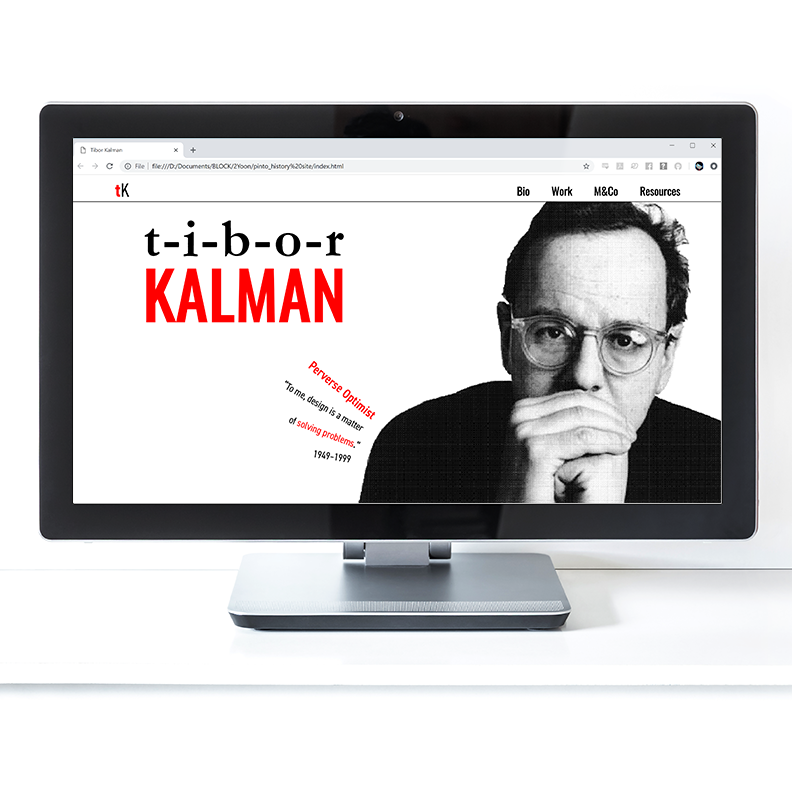
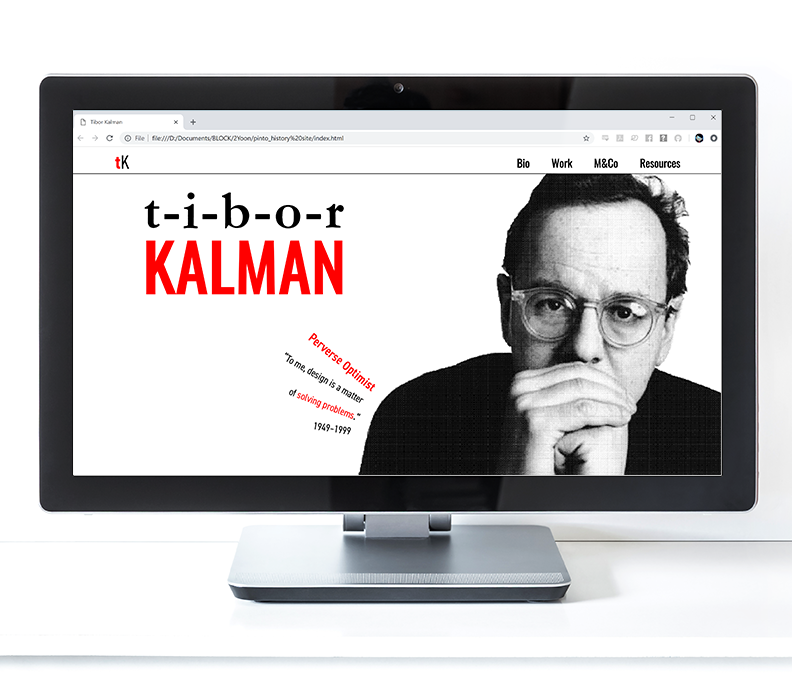
*seven project pages*

Changed region(s): [[0.0, 0.0921, 1.0, 0.8904], [0.1818, 0.2763, 0.4545, 0.4298], [0.0, 0.9518, 1.0, 0.9825]]

diff --git a/covers.html b/covers.html
@@ -1,0 +1,64 @@
+<!DOCTYPE html>
+<!--[if lte IE 6]><html class="preIE7 preIE8 preIE9"><![endif]-->
+<!--[if IE 7]><html class="preIE8 preIE9"><![endif]-->
+<!--[if IE 8]><html class="preIE9"><![endif]-->
+<!--[if gte IE 9]><!-->
+<html><!--<![endif]-->
+<head>
+  <meta charset="UTF-8">
+  <title>Clarisse Pinto</title>
+  <meta name="author" content="Clarisse Pinto">
+  <meta name="description" content="Clarisse Pinto's graphic design portfolio.">
+  <meta name="keywords" content="clarisse, pinto, graphic design, design, portfolio, university of hosuton, student">
+  <link rel="stylesheet" href="https://use.typekit.net/shd0qyw.css">
+  <link rel="stylesheet" href="main.css" type="text/css">
+    
+    <style>
+    </style>    
+</head>
+    
+    <nav>
+		<ul id="navi">
+            <li class="home"><a class="active" href="index.html">C<span class="ital">larisse</span> Pinto</a></li>
+            <li class="work"><a href="index.html#grid">W<span class="ital">ork</span></a></li>
+            <li class="about"><a href="about.html">About</a></li>
+            <li class="contact"><span id="te">T</span> <span id="cel">832.922.7757</span> <br>
+            <span id="te">E</span><a href="mailto:hi@clarissepin.to"> hi@clarissepin.to</a></li>
+		</ul>
+	</nav>
+       
+    
+<body>
+
+    <section id="fold">
+        <div>
+            <h2 class="name">Book Cover Series</h2>
+            <h3 class="subs">print / handlettering / book cover design</h3>
+        </div>
+
+        <div class="hero">
+             <img src="covers/bc_web.jpg">
+            <p class="arrow"><a href="covers.html#content">&caron;</a></p>
+        </div>
+    </section>
+    
+    <section id="content">
+        <div class="statement">
+            <p>This series of handlettered covers reflect the satire of American life highlighted in each of the novels. An OpArt aesthetic echoes the idea that things aren't as they seem at first glance. </p>
+        </div>
+
+        <div class="images">
+            <img src="covers/bc_back2_web.jpg">
+            <img src="covers/bc_ap_web.jpg">
+            <img src="covers/bc_cc_web.jpg">
+            <img src="covers/bc_nl_web.jpg">
+            <img src="covers/bc_spine_web.jpg">
+        </div>
+    </section>
+
+
+
+
+
+</body>
+</html>

diff --git a/poetryposter.html b/poetryposter.html
@@ -1,0 +1,61 @@
+<!DOCTYPE html>
+<!--[if lte IE 6]><html class="preIE7 preIE8 preIE9"><![endif]-->
+<!--[if IE 7]><html class="preIE8 preIE9"><![endif]-->
+<!--[if IE 8]><html class="preIE9"><![endif]-->
+<!--[if gte IE 9]><!-->
+<html><!--<![endif]-->
+<head>
+  <meta charset="UTF-8">
+  <title>Clarisse Pinto</title>
+  <meta name="author" content="Clarisse Pinto">
+  <meta name="description" content="Clarisse Pinto's graphic design portfolio.">
+  <meta name="keywords" content="clarisse, pinto, graphic design, design, portfolio, university of hosuton, student">
+  <link rel="stylesheet" href="https://use.typekit.net/shd0qyw.css">
+  <link rel="stylesheet" href="main.css" type="text/css">
+    
+    <style>
+    </style>    
+</head>
+    
+    <nav>
+		<ul id="navi">
+            <li class="home"><a class="active" href="index.html">C<span class="ital">larisse</span> Pinto</a></li>
+            <li class="work"><a href="index.html#grid">W<span class="ital">ork</span></a></li>
+            <li class="about"><a href="about.html">About</a></li>
+            <li class="contact"><span id="te">T</span> <span id="cel">832.922.7757</span> <br>
+            <span id="te">E</span><a href="mailto:hi@clarissepin.to"> hi@clarissepin.to</a></li>
+		</ul>
+	</nav>
+       
+    
+<body>
+
+    <section id="fold">
+        <div>
+            <h2 class="name">Jabberwock Visual Poem</h2>
+            <h3 class="subs">print / letterpress / creative writing / collaboration</h3>
+        </div>
+
+        <div class="hero">
+             <img src="poetryposter/jb_close.jpg">
+            <p class="arrow"><a href="poetryposter.html#content">&caron;</a></p>
+        </div>
+    </section>
+    
+    <section id="content">
+        <div class="statement">
+            <p>This letterpress poster was part of a collaborative alphabet poetry book. The UHGD class of 2019 did a round robbin alliteration exercise and created individual visual poems through traditional print methods. </p>
+        </div>
+
+        <div class="images">
+            <img src="poetryposter/jb_close2.jpg">
+            <img src="poetryposter/jabberwock.png">
+        </div>
+    </section>
+
+
+
+
+
+</body>
+</html>

diff --git a/index.html b/index.html
@@ -32,13 +32,9 @@
     
 
 <section id="splash"> 
-    
     <div class="bq">    
         <blockquote>Passionate about the social impact potential of design to improve people’s experience through thoughtfully considered decisions.</blockquote>
-    </div>    
-    
-    
-    
+    </div>        
 </section>      
     
 
@@ -52,6 +48,20 @@
             <p> print / book Design</p>
             <a href="daysforgirls.html"><img src="dfg_annualreport/dfg_text1.jpg" style="width:100%"></a>
         </div>
+         <div>
+            <h4>Jabberwock Visual Poem</h4>
+            <p> print / letterpress / creative writing / collaboration</p>
+            <a href="poetryposter.html"><img src="poetryposter/jabberwock.png" style="width:100%"></a>
+        </div>
+
+    </div>
+        
+    <div class="column">
+        <div>
+            <h4>Thirst: Commodifying a Natural Human Right</h4>
+            <p>print / infographic</p>
+            <a href="thirst.html"><img src="thirst/thirst_poster.png" style="width:100%"></a>
+        </div>
         <div>
             <h4>Design Icon Website</h4>
             <p>web design / html / css</p>
@@ -61,17 +71,14 @@
         
     <div class="column">
         <div>
-            <h4>Thirst: Commodifying a Natural Human Right</h4>
-            <p>print / infographic</p>
-            <a href="thirst.html"><img src="thirst/thirst_poster.png" style="width:100%"></a>
-        </div>         
-    </div>
-        
-    <div class="column">
-        <div>
             <h4>Travel Anthology</h4>
             <p>print / book design / creative writing</p>
             <a href="travelanthology.html"><img src="anthology/an_pg2_3.jpg" style="width:100%"></a>
+        </div>
+        <div>
+            <h4>Book Cover Series</h4>
+            <p>print / handlettering / book cover design</p>
+            <a href="covers.html"><img src="covers/bc_spine_web.jpg" style="width:100%"></a>
         </div>
         <div>
             <h4>When to Wear: Closet Organizing Concept</h4>

diff --git a/thirst.html b/thirst.html
@@ -37,7 +37,7 @@
         </div>
 
         <div class="hero">
-             <img src="thirst/thirst_zoom.png">
+             <img src="thirst/thirst_zoom.jpg">
             <p class="arrow"><a href="thirst.html#content">&caron;</a></p>
         </div>
     </section>
@@ -49,9 +49,8 @@
 
         <div class="images">
             <div class="full"><img src="thirst/thirstfull.png"></div>
-            <img src="thirst/table.png">
-            <div class="wide"><img src="thirst/process.png"></div>
-            
+            <div class="wide"><img src="thirst/table.jpg">
+            <img src="thirst/process.jpg"></div>
         </div>
     </section>
 

diff --git a/daysforgirls.html b/daysforgirls.html
@@ -59,6 +59,9 @@
         <div class="statement">
             <p>The large text recedes into the background because while bold, it is the subtle strength of everyday living that is the focus of the project. The color palette is meant to be youthful and bright, while the image treatment places focus on the girls themselves.</p> 
         </div>
+        <div class="images">
+            <img src="dfg_annualreport/dfg.gif">
+        </div>
     </section>
 
 

diff --git a/main.css b/main.css
@@ -97,7 +97,9 @@ ul#navi li.contact a {
 
 /*splash*/
 
-
+#splash {
+    max-height: 95vh;
+}
 
 .bq blockquote {
     font-family: roc-grotesk-wide, sans-serif;
@@ -368,9 +370,9 @@ h4 {
     width: 70%;
 }
 
-
-
-
+#content {
+    margin-bottom: 80px;
+}
 
 
 

diff --git a/whentowear.html b/whentowear.html
@@ -53,7 +53,7 @@
         </div>
 
         <div class="images">
-            <img src="app/w2w_screens.png">
+            <img src="app/w2w_screens.jpg">
             
         </div>
     </section>
